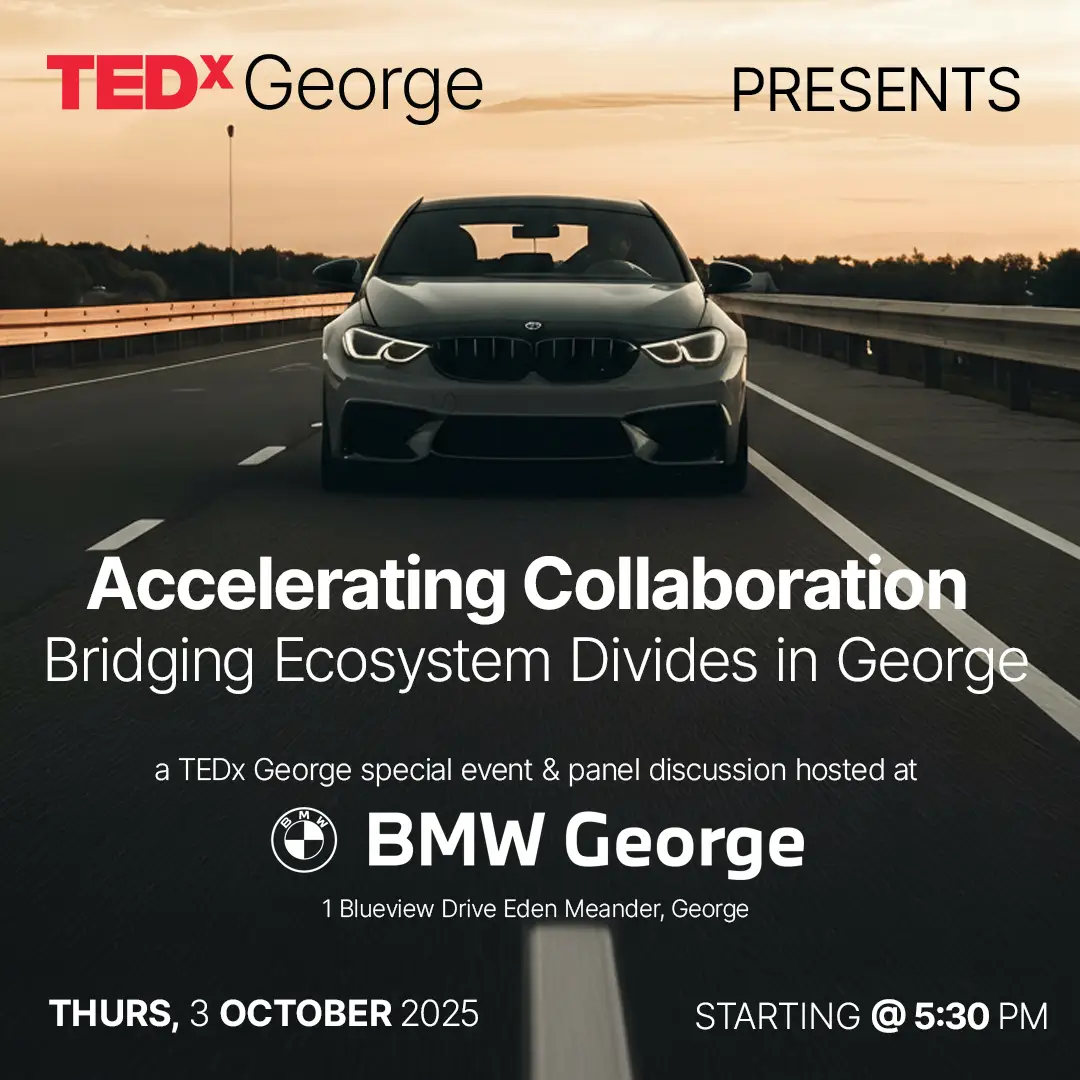
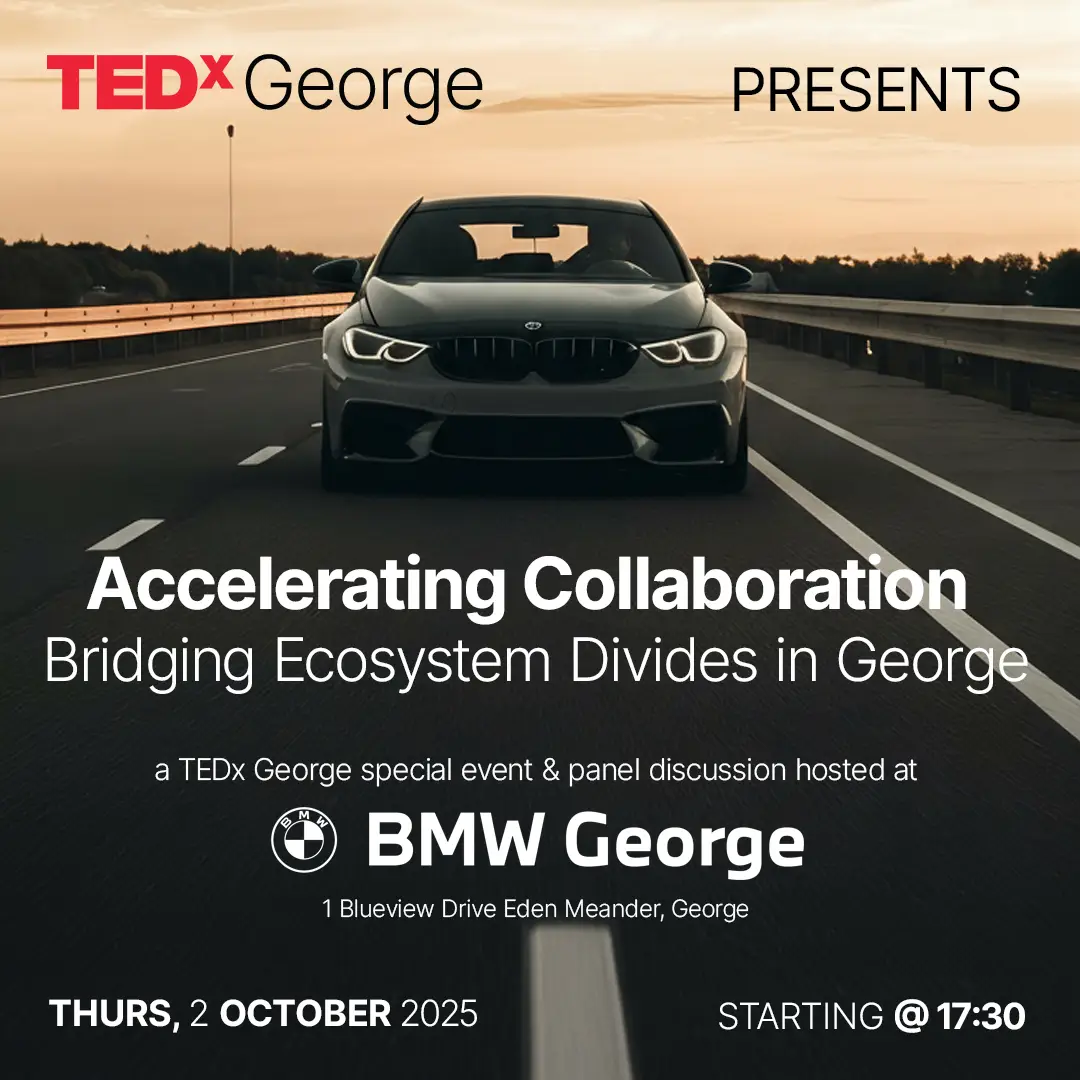
updates

diff --git a/lib/eventList.js b/lib/eventList.js
@@ -14,7 +14,7 @@ export const eventsList = [
         title: "Accelerating Collaboration: Bridging Ecosystem Divides in George",
         src: bmwworkshop2025.src,
         time: "5:30pm - 8pm",
-        date: "3 October 2025",
+        date: "2 October 2025",
         location: "BMW George, 1 Blueview Drive, Eden Meander, George",
         href: "/events/accelerating-collaboration-bridging-ecosystem-divides-in-george",
         slug: "accelerating-collaboration-bridging-ecosystem-divides-in-george",
